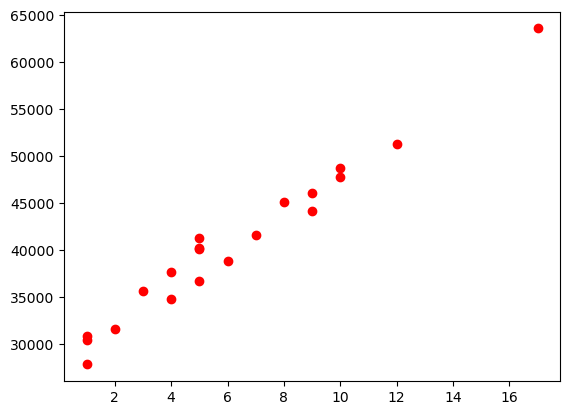
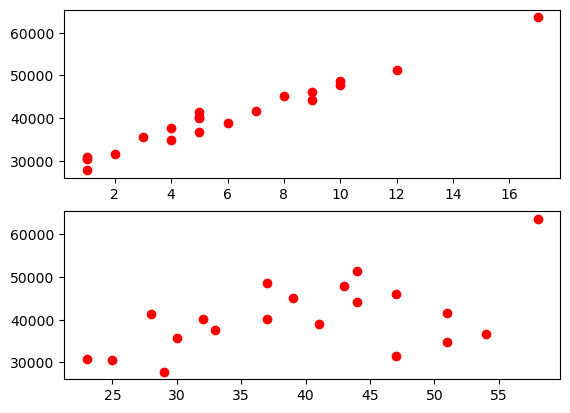
add sklearn and pytorch linear reg

diff --git a/docs/linearRegression.md b/docs/linearRegression.md
@@ -2,11 +2,17 @@
 
 ## Purpose
 
-- Helps find the relationship features and label
+- Helps find the relationship between features and label
 - Generally 2 dim, but can be scaled to any dimension
 - Any statistical model which can fit a linear equation can be approximately classified by linear regression
 
+## General use cases
 
+- Real estate: Predicting house prices based on square footage, number of bedrooms, and location. 
+- Marketing: Estimating sales based on advertising budget. 
+- Education: Analyzing the relationship between study hours and test scores. 
+- Healthcare: Predicting medical costs based on patient factors like age and health conditions. 
+- Agriculture: Estimating crop yield based on fertilizer and water levels
 
 ## Implementation
 
@@ -22,12 +28,17 @@ df = pd.read_csv(f"{path}" + "/multiple_linear_regression_dataset.csv", sep=",")
 
 #EDA
 import matplotlib.pyplot as plt
+plt.subplot(2,1,1)
 plt.plot(df["experience"], df["income"], 'ro')
+plt.subplot(2,1,2)
+plt.plot(df["age"], df["income"], 'ro')
 plt.show()
 ```
 ![Plot showing data](img\linear reg\eda.png)
+
+From the image we can observe that income is dependent on experience.
 === "Python"
-    ```
+    ```py
     import numpy as np
     class linearRegressor:
         def __init__(self) -> None:
@@ -68,16 +79,78 @@ plt.show()
     plt.ylabel('Loss')
     plt.show()
     ```
-    ![Plot showing data](img\linear reg\loss.png)
+    ![Losses bs iterations](img\linear reg\loss.png)
 
     ```
     plt.plot(df["experience"], df["income"], 'ro')
     plt.plot(X_train, y_pred, color = "g")
     plt.show()
     ```
-    ![Plot showing data](img\linear reg\pred.png)
+    ![Predictions](img\linear reg\pred.png)
 
 === "sklearn"
-    
+    ```py
+    from sklearn.linear_model import LinearRegression
+    from sklearn.metrics import mean_squared_error, r2_score
+    model = LinearRegression()
+    X_train = np.array(X_train).reshape(-1,1)
+    y_train = np.array(y_train).reshape(-1,1)
+    model.fit(X_train, y_train)
+    y_pred = model.predict(X_train)
+    print("Coefficients: \n", model.coef_, model.intercept_)
+    # The mean squared error
+    print("Mean squared error: %.2f" % mean_squared_error(y_train, y_pred))
+    # The coefficient of determination: 1 is perfect prediction
+    print("Coefficient of determination: %.2f" % r2_score(y_train, y_pred))
+
+    # Plot outputs
+    plt.scatter(X_train, y_train, color="black")
+    plt.plot(X_train, y_pred, color="blue", linewidth=3)
+    plt.show()
+    ```
+    ![scikit learn prediction](img\linear reg\pred-sklearn.png)
 
 === "Pytorch"
+    ```py
+    import torch
+    import torch.nn as nn
+    class linearRegression(nn.Module):
+        def __init__(self, input_dim, output_dim):
+            super(linearRegression, self).__init__()
+            self.linear = nn.Linear(input_dim, output_dim)
+        
+        def forward(self, x):
+            out = self.linear(x)
+            return out
+    
+    model = linearRegression(1, 1)
+
+    criterion = nn.MSELoss()
+    lr = 0.005
+    optimizer = torch.optim.SGD(model.parameters(), lr=lr)
+    for epoch in range(100):
+        inputs = torch.Tensor(X_train).requires_grad_()
+        labels = torch.Tensor(y_train)
+
+        optimizer.zero_grad()
+        outputs = model(inputs)
+        loss = criterion(outputs, labels)
+        loss.backward()
+        optimizer.step()
+        print('epoch {}, loss {}'.format(epoch, loss.item()))
+    
+    predicted = model(torch.Tensor(X_train).requires_grad_()).data.numpy()
+    plt.plot(X_train, y_train, 'go', label='True data', alpha=0.5)
+    plt.plot(X_train, predicted, '--', label='Predictions', alpha=0.5)
+    plt.legend(loc='best')
+    plt.show()
+    ```
+    ![pytorch prediction](img\linear reg\pred-pytorch.png)
+
+
+## When does linear regression fail?
+
+- Outliers: Extreme data points that can significantly skew the regression line. 
+- Non-linearity: When the relationship between variables isn't linear
+- Collinearity: When independent variables are highly correlated with each other, making it difficult to isolate their individual effects. 
+- Heteroscedasticity: When the variance of the error terms is not constant across the data range.
